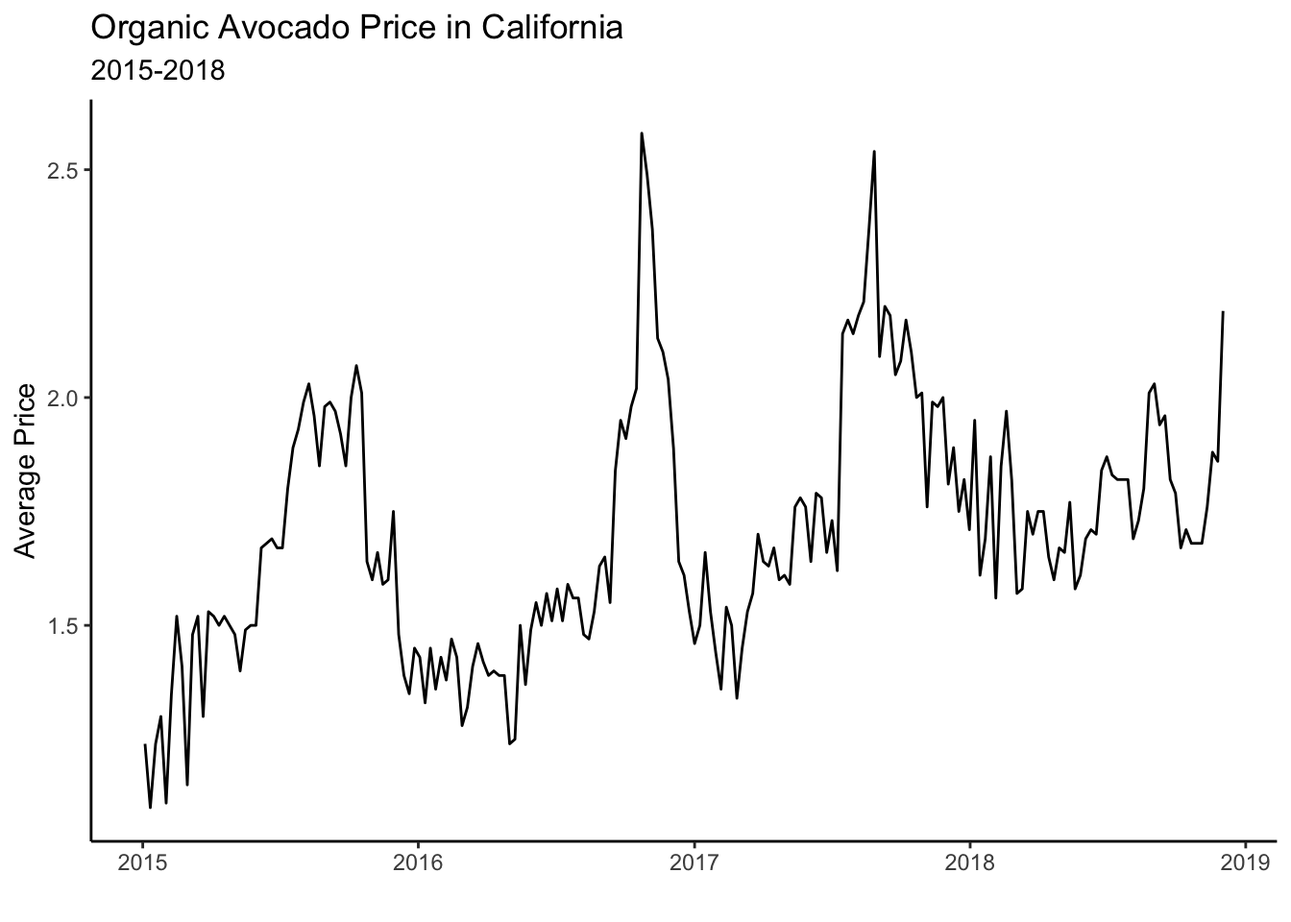
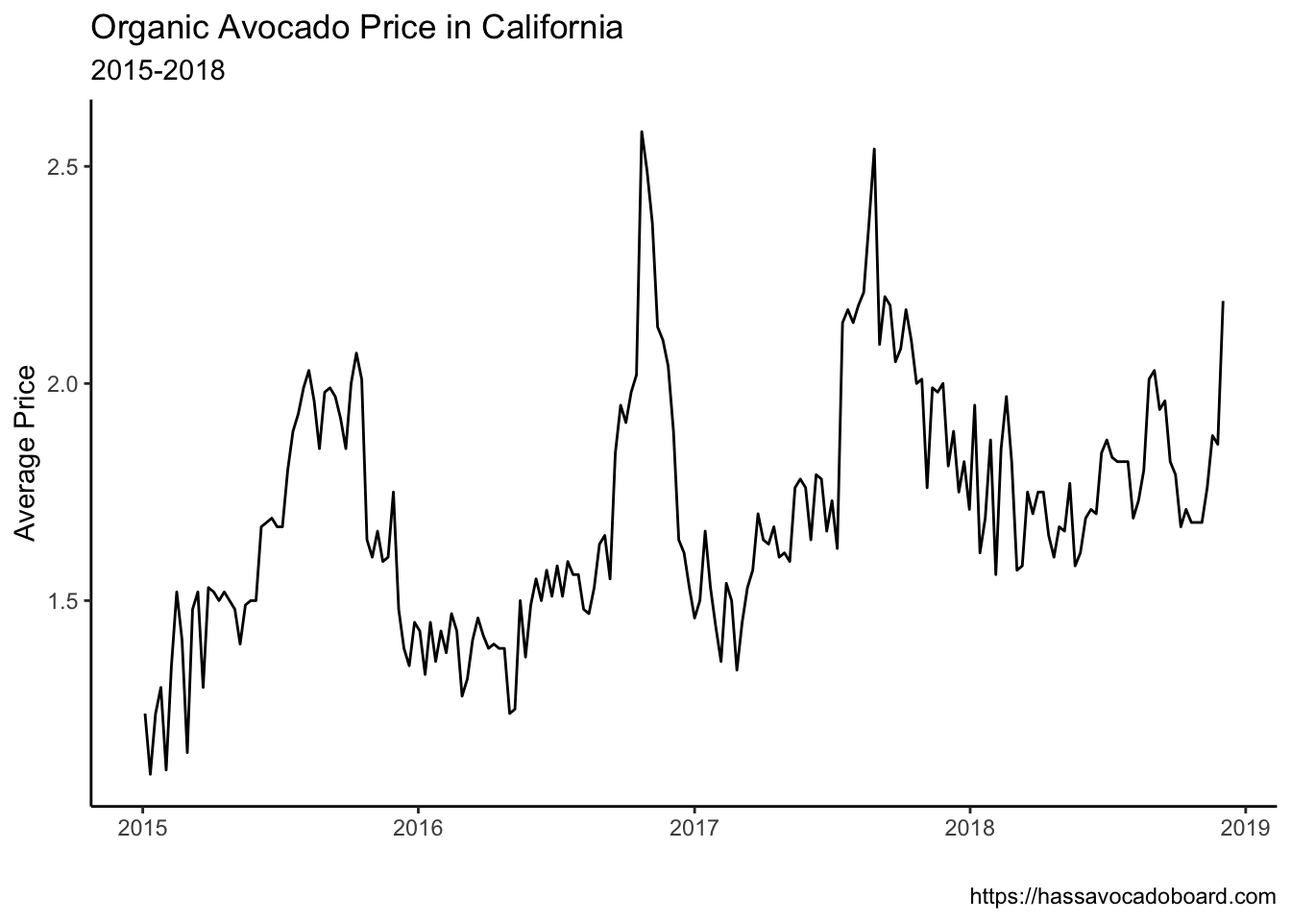
changes to tools 2

diff --git a/docs/Tools2.html b/docs/Tools2.html
@@ -2,7 +2,7 @@
 <html xmlns="http://www.w3.org/1999/xhtml" lang="en" xml:lang="en"><head>
 
 <meta charset="utf-8">
-<meta name="generator" content="quarto-1.3.353">
+<meta name="generator" content="quarto-1.3.433">
 
 <meta name="viewport" content="width=device-width, initial-scale=1.0, user-scalable=yes">
 
@@ -110,7 +110,8 @@ div.csl-indent {
     "search-more-matches-text": "more matches in this document",
     "search-clear-button-title": "Clear",
     "search-detached-cancel-button-title": "Cancel",
-    "search-submit-button-title": "Submit"
+    "search-submit-button-title": "Submit",
+    "search-label": "Search"
   }
 }</script>
 
@@ -131,7 +132,7 @@ div.csl-indent {
       <nav class="quarto-page-breadcrumbs" aria-label="breadcrumb"><ol class="breadcrumb"><li class="breadcrumb-item"><a href="./Tools2.html"><span class="chapter-number">4</span>&nbsp; <span class="chapter-title">Time Series Tools</span></a></li></ol></nav>
       <a class="flex-grow-1" role="button" data-bs-toggle="collapse" data-bs-target="#quarto-sidebar,#quarto-sidebar-glass" aria-controls="quarto-sidebar" aria-expanded="false" aria-label="Toggle sidebar navigation" onclick="if (window.quartoToggleHeadroom) { window.quartoToggleHeadroom(); }">      
       </a>
-      <button type="button" class="btn quarto-search-button" aria-label="Search" onclick="window.quartoOpenSearch();">
+      <button type="button" class="btn quarto-search-button" aria-label="" onclick="window.quartoOpenSearch();">
         <i class="bi bi-search"></i>
       </button>
     </div>
@@ -257,7 +258,7 @@ div.csl-indent {
 </section>
 <section id="sec-Avocado" class="level2" data-number="4.2">
 <h2 data-number="4.2" class="anchored" data-anchor-id="sec-Avocado"><span class="header-section-number">4.2</span> The Avocado Data Set</h2>
-<p>The Hass Avocado Board provides the data set and contains weekly retail scan data of U.S. retail volume (units) and price. Retail scan data comes directly from retailers’ cash registers based on actual retail sales of Hass avocados. The data reflects an expanded, multi-outlet reporting aggregating the following channels: grocery, mass, club, drug, dollar, and military. The Average Price (of avocados) in the table reflects a per unit (per avocado) cost, even when multiple units (avocados) are sold in bags. Other avocados (e.g.&nbsp;greenskins) are not included in this data. You can find the data <a href="https://jagelves.github.io/Data/avocado2020.csv">here</a>.</p>
+<p>The <a href="https://hassavocadoboard.com">Hass Avocado Board</a> provides the data set and contains weekly retail scan data of U.S. retail volume (units) and price. Retail scan data comes directly from retailers’ cash registers based on actual retail sales of Hass avocados. The data reflects an expanded, multi-outlet reporting aggregating the following channels: grocery, mass, club, drug, dollar, and military. The Average Price (of avocados) in the table reflects a per unit (per avocado) cost, even when multiple units (avocados) are sold in bags. Other avocados (e.g.&nbsp;greenskins) are not included in this data. You can find the data <a href="https://jagelves.github.io/Data/avocado2020.csv">here</a>.</p>
 <p><strong>Note:</strong> In general the data is recorded weekly. However, there is an entry on 01/01/2018, that is right after 12/31/2017. This is a single observation that is not weekly. There are also missing dates from 12/02/2018-12/31/2018.</p>
 </section>
 <section id="loading-tidyverse-and-inspecting-the-data." class="level2" data-number="4.3">
@@ -267,11 +268,11 @@ div.csl-indent {
 <div class="sourceCode cell-code" id="cb1"><pre class="sourceCode r code-with-copy"><code class="sourceCode r"><span id="cb1-1"><a href="#cb1-1" aria-hidden="true" tabindex="-1"></a><span class="fu">library</span>(tidyverse)</span></code><button title="Copy to Clipboard" class="code-copy-button"><i class="bi"></i></button></pre></div>
 <div class="cell-output cell-output-stderr">
 <pre><code>── Attaching core tidyverse packages ──────────────────────── tidyverse 2.0.0 ──
-✔ dplyr     1.1.2     ✔ readr     2.1.4
+✔ dplyr     1.1.3     ✔ readr     2.1.4
 ✔ forcats   1.0.0     ✔ stringr   1.5.0
-✔ ggplot2   3.4.2     ✔ tibble    3.2.1
-✔ lubridate 1.9.2     ✔ tidyr     1.3.0
-✔ purrr     1.0.1     
+✔ ggplot2   3.4.3     ✔ tibble    3.2.1
+✔ lubridate 1.9.3     ✔ tidyr     1.3.0
+✔ purrr     1.0.2     
 ── Conflicts ────────────────────────────────────────── tidyverse_conflicts() ──
 ✖ dplyr::filter() masks stats::filter()
 ✖ dplyr::lag()    masks stats::lag()
@@ -343,46 +344,62 @@ dbl (10): average_price, total_volume, 4046, 4225, 4770, total_bags, small_b...
 <div class="sourceCode cell-code" id="cb10"><pre class="sourceCode r code-with-copy"><code class="sourceCode r"><span id="cb10-1"><a href="#cb10-1" aria-hidden="true" tabindex="-1"></a>avocado <span class="sc">%&gt;%</span> <span class="fu">filter</span>(date<span class="sc">!=</span><span class="fu">ymd</span>(<span class="st">"2018-01-01"</span>)) <span class="ot">-&gt;</span> avocado</span></code><button title="Copy to Clipboard" class="code-copy-button"><i class="bi"></i></button></pre></div>
 </div>
 <p>You should notice that whereas the <code>select()</code> function chooses particular variables (i.e., columns), the <code>filter()</code> function chooses rows of the tibble that meet the conditions listed. Note also that the filtered data set is assigned (<code>-&gt;</code>) to <em>avocado</em> overwriting the older object.</p>
-<p>The examples above highlight the use of <code>dplyr</code> functions to transform your data. There are plenty of other functions, but learning these are outside the scope of this book. To find out more, I recommend reading <span class="citation" data-cites="R4DS">Wickham (<a href="references.html#ref-R4DS" role="doc-biblioref">2017</a>)</span> Chapter 4. For now, we will use one more data transformation technique to retrieve California’s average price of organic avocados for 2015-2018.</p>
+<p>The examples above highlight the use of <code>dplyr</code> functions to transform your data. There are plenty of other functions, but learning these are outside the scope of this book. To find out more, I recommend reading <span class="citation" data-cites="R4DS">Wickham (<a href="references.html#ref-R4DS" role="doc-biblioref">2017</a>)</span> Chapter 4. Let’s use the <code>filter()</code> and <code>select()</code> functions once more to retrieve California’s average price of organic avocados for 2015-2018.</p>
 <div class="cell">
 <div class="sourceCode cell-code" id="cb11"><pre class="sourceCode r code-with-copy"><code class="sourceCode r"><span id="cb11-1"><a href="#cb11-1" aria-hidden="true" tabindex="-1"></a>avocado <span class="sc">%&gt;%</span> </span>
 <span id="cb11-2"><a href="#cb11-2" aria-hidden="true" tabindex="-1"></a>  <span class="fu">filter</span>(geography<span class="sc">==</span><span class="st">"California"</span>, type<span class="sc">==</span><span class="st">"organic"</span>, year<span class="sc">&lt;=</span><span class="dv">2018</span>) <span class="sc">%&gt;%</span> </span>
-<span id="cb11-3"><a href="#cb11-3" aria-hidden="true" tabindex="-1"></a>  <span class="fu">select</span>(date, average_price, geography) <span class="ot">-&gt;</span> cali</span></code><button title="Copy to Clipboard" class="code-copy-button"><i class="bi"></i></button></pre></div>
+<span id="cb11-3"><a href="#cb11-3" aria-hidden="true" tabindex="-1"></a>  <span class="fu">select</span>(date, average_price) <span class="ot">-&gt;</span> cali</span></code><button title="Copy to Clipboard" class="code-copy-button"><i class="bi"></i></button></pre></div>
 </div>
+<p>When exploring time series data, it is important to standardize the time interval between observations. The code below calculates the number of days between observations.</p>
+<div class="cell">
+<div class="sourceCode cell-code" id="cb12"><pre class="sourceCode r code-with-copy"><code class="sourceCode r"><span id="cb12-1"><a href="#cb12-1" aria-hidden="true" tabindex="-1"></a>cali <span class="sc">%&gt;%</span> <span class="fu">pull</span>(date) <span class="sc">%&gt;%</span> <span class="fu">diff</span>()</span></code><button title="Copy to Clipboard" class="code-copy-button"><i class="bi"></i></button></pre></div>
+<div class="cell-output cell-output-stdout">
+<pre><code>Time differences in days
+  [1] 7 7 7 7 7 7 7 7 7 7 7 7 7 7 7 7 7 7 7 7 7 7 7 7 7 7 7 7 7 7 7 7 7 7 7 7 7
+ [38] 7 7 7 7 7 7 7 7 7 7 7 7 7 7 7 7 7 7 7 7 7 7 7 7 7 7 7 7 7 7 7 7 7 7 7 7 7
+ [75] 7 7 7 7 7 7 7 7 7 7 7 7 7 7 7 7 7 7 7 7 7 7 7 7 7 7 7 7 7 7 7 7 7 7 7 7 7
+[112] 7 7 7 7 7 7 7 7 7 7 7 7 7 7 7 7 7 7 7 7 7 7 7 7 7 7 7 7 7 7 7 7 7 7 7 7 7
+[149] 7 7 7 7 7 7 7 7 7 7 7 7 7 7 7 7 7 7 7 7 7 7 7 7 7 7 7 7 7 7 7 7 7 7 7 7 7
+[186] 7 7 7 7 7 7 7 7 7 7 7 7 7 7 7 7 7 7 7</code></pre>
+</div>
+</div>
+<p>The <code>pull()</code> function vectorizes the <em>date</em> variable, making it possible to apply the <code>diff()</code> function. The result confirms that all observations are seven days apart and that no missing observations or duplicates exist.</p>
 </section>
 <section id="sec-Visual" class="level2" data-number="4.5">
 <h2 data-number="4.5" class="anchored" data-anchor-id="sec-Visual"><span class="header-section-number">4.5</span> Visualizing The Data</h2>
 <p>To visualize the data, we will be using <code>ggplot2</code>. One of the main functions in <code>ggplot2</code> is the <code>aes()</code> function. This function sets the plotting canvas and determines the mapping of variables. The <code>geom_line()</code> function specifies the type of plot and is added to the canvas with the plus sign <code>+</code>. In time series, we will use the line plot regularly. Labels for the graph are easily set with the <code>labs()</code> function and there are plenty of themes available to customize your visualization. Below, the <code>theme_classic()</code> is displayed. To learn more about the <code>ggplot</code> package, you can refer to <span class="citation" data-cites="R4DS">Wickham (<a href="references.html#ref-R4DS" role="doc-biblioref">2017</a>)</span> Chapter 2. Below is the code to create a line plot of California’s average avocado price.</p>
 <div class="cell">
-<div class="sourceCode cell-code" id="cb12"><pre class="sourceCode r code-with-copy"><code class="sourceCode r"><span id="cb12-1"><a href="#cb12-1" aria-hidden="true" tabindex="-1"></a><span class="fu">ggplot</span>(<span class="at">data=</span>cali) <span class="sc">+</span> </span>
-<span id="cb12-2"><a href="#cb12-2" aria-hidden="true" tabindex="-1"></a>  <span class="fu">geom_line</span>(<span class="at">mapping=</span><span class="fu">aes</span>(<span class="at">x=</span>date,<span class="at">y=</span>average_price, <span class="at">group=</span>geography),<span class="at">color=</span><span class="st">"black"</span>) <span class="sc">+</span></span>
-<span id="cb12-3"><a href="#cb12-3" aria-hidden="true" tabindex="-1"></a>  <span class="fu">theme_classic</span>() <span class="sc">+</span> </span>
-<span id="cb12-4"><a href="#cb12-4" aria-hidden="true" tabindex="-1"></a>  <span class="fu">labs</span>(<span class="at">x=</span><span class="st">""</span>,</span>
-<span id="cb12-5"><a href="#cb12-5" aria-hidden="true" tabindex="-1"></a>       <span class="at">y=</span><span class="st">"Average Price"</span>, </span>
-<span id="cb12-6"><a href="#cb12-6" aria-hidden="true" tabindex="-1"></a>       <span class="at">title=</span><span class="st">"Organic Avocado Price in California"</span>,</span>
-<span id="cb12-7"><a href="#cb12-7" aria-hidden="true" tabindex="-1"></a>       <span class="at">subtitle=</span><span class="st">"2015-2018"</span>)  </span></code><button title="Copy to Clipboard" class="code-copy-button"><i class="bi"></i></button></pre></div>
+<div class="sourceCode cell-code" id="cb14"><pre class="sourceCode r code-with-copy"><code class="sourceCode r"><span id="cb14-1"><a href="#cb14-1" aria-hidden="true" tabindex="-1"></a><span class="fu">ggplot</span>(<span class="at">data=</span>cali) <span class="sc">+</span> </span>
+<span id="cb14-2"><a href="#cb14-2" aria-hidden="true" tabindex="-1"></a>  <span class="fu">geom_line</span>(<span class="at">mapping=</span><span class="fu">aes</span>(<span class="at">x=</span>date,<span class="at">y=</span>average_price),</span>
+<span id="cb14-3"><a href="#cb14-3" aria-hidden="true" tabindex="-1"></a>            <span class="at">color=</span><span class="st">"black"</span>) <span class="sc">+</span></span>
+<span id="cb14-4"><a href="#cb14-4" aria-hidden="true" tabindex="-1"></a>  <span class="fu">theme_classic</span>() <span class="sc">+</span> </span>
+<span id="cb14-5"><a href="#cb14-5" aria-hidden="true" tabindex="-1"></a>  <span class="fu">labs</span>(<span class="at">x=</span><span class="st">""</span>,</span>
+<span id="cb14-6"><a href="#cb14-6" aria-hidden="true" tabindex="-1"></a>       <span class="at">y=</span><span class="st">"Average Price"</span>, </span>
+<span id="cb14-7"><a href="#cb14-7" aria-hidden="true" tabindex="-1"></a>       <span class="at">title=</span><span class="st">"Organic Avocado Price in California"</span>,</span>
+<span id="cb14-8"><a href="#cb14-8" aria-hidden="true" tabindex="-1"></a>       <span class="at">subtitle=</span><span class="st">"2015-2018"</span>,</span>
+<span id="cb14-9"><a href="#cb14-9" aria-hidden="true" tabindex="-1"></a>       <span class="at">caption=</span><span class="st">"https://hassavocadoboard.com"</span>)  </span></code><button title="Copy to Clipboard" class="code-copy-button"><i class="bi"></i></button></pre></div>
 <div class="cell-output-display">
-<p><img src="Tools2_files/figure-html/unnamed-chunk-8-1.png" class="img-fluid" width="672"></p>
+<p><img src="Tools2_files/figure-html/unnamed-chunk-9-1.png" class="img-fluid" width="672"></p>
 </div>
 </div>
 <p>The average price of avocados in California increased during the period considered. It reached a maximum of about <span class="math inline">\(2.60\)</span> in <span class="math inline">\(2017\)</span> and a minimum of <span class="math inline">\(1.10\)</span> in <span class="math inline">\(2015\)</span>. There is also a seasonal pattern with low prices at the beginning of the year and peaks mid-year. In upcoming chapters, we will extrapolate these patterns and use them to forecast time series.</p>
 </section>
 <section id="tsibbles" class="level2" data-number="4.6">
 <h2 data-number="4.6" class="anchored" data-anchor-id="tsibbles"><span class="header-section-number">4.6</span> tsibbles</h2>
-<p>When dealing with time series, time plays an important role. Consequently, we will use a data structure called a tsibble (time series tibble). tsibbles are defined by a time index (i.e., the date) that has a standard interval (i.e., days, weeks, months, and years) and keys (i.e., dimensions or observational units). In the <em>avocado</em> data set, we are mainly interested in the average price of the avocados. You will note that the prices are classified by location (geography) and type (organic and conventional). You can learn more about tsibbles <a href="https://tsibble.tidyverts.org">here</a>.</p>
+<p>When analyzing time series, time plays a central role. Consequently, we will use a data structure to handle a time series called a tsibble (time series tibble). tsibbles are defined by a time index (i.e., the date) that has a standard interval (i.e., days, weeks, months, and years) and keys (i.e., dimensions that do not vary with time). In the <em>avocado</em> data set, we are mainly interested in the average price of the avocados. You will note that the prices are classified by location (geography) and type (organic and conventional). You can learn more about tsibbles <a href="https://tsibble.tidyverts.org">here</a>.</p>
 <p>tsibbles, as well a variety of packages that help us analyze time series, are part of the <code>fpp3</code> package. Below we load the package, and coerce our avocado tibble to a tsibble.</p>
 <div class="cell">
-<div class="sourceCode cell-code" id="cb13"><pre class="sourceCode r code-with-copy"><code class="sourceCode r"><span id="cb13-1"><a href="#cb13-1" aria-hidden="true" tabindex="-1"></a><span class="fu">library</span>(fpp3)</span>
-<span id="cb13-2"><a href="#cb13-2" aria-hidden="true" tabindex="-1"></a>avocado <span class="sc">%&gt;%</span></span>
-<span id="cb13-3"><a href="#cb13-3" aria-hidden="true" tabindex="-1"></a>  <span class="fu">as_tsibble</span>(<span class="at">key=</span><span class="fu">c</span>(type, geography),</span>
-<span id="cb13-4"><a href="#cb13-4" aria-hidden="true" tabindex="-1"></a>           <span class="at">index=</span>date, <span class="at">regular=</span>T) <span class="sc">%&gt;%</span></span>
-<span id="cb13-5"><a href="#cb13-5" aria-hidden="true" tabindex="-1"></a>  <span class="fu">filter_index</span>(<span class="st">"2015-01-04"</span><span class="sc">~</span><span class="st">"2018-12-02"</span>)<span class="ot">-&gt;</span> avocadots</span></code><button title="Copy to Clipboard" class="code-copy-button"><i class="bi"></i></button></pre></div>
+<div class="sourceCode cell-code" id="cb15"><pre class="sourceCode r code-with-copy"><code class="sourceCode r"><span id="cb15-1"><a href="#cb15-1" aria-hidden="true" tabindex="-1"></a><span class="fu">library</span>(fpp3)</span>
+<span id="cb15-2"><a href="#cb15-2" aria-hidden="true" tabindex="-1"></a>avocado <span class="sc">%&gt;%</span></span>
+<span id="cb15-3"><a href="#cb15-3" aria-hidden="true" tabindex="-1"></a>  <span class="fu">as_tsibble</span>(<span class="at">key=</span><span class="fu">c</span>(type, geography),</span>
+<span id="cb15-4"><a href="#cb15-4" aria-hidden="true" tabindex="-1"></a>           <span class="at">index=</span>date, <span class="at">regular=</span>T) <span class="sc">%&gt;%</span></span>
+<span id="cb15-5"><a href="#cb15-5" aria-hidden="true" tabindex="-1"></a>  <span class="fu">filter_index</span>(<span class="st">"2015-01-04"</span><span class="sc">~</span><span class="st">"2018-12-02"</span>)<span class="ot">-&gt;</span> avocadots</span></code><button title="Copy to Clipboard" class="code-copy-button"><i class="bi"></i></button></pre></div>
 </div>
-<p>In the code above, the <code>as_tsibble()</code> function was called with the parameter <em>regular</em> set at true indicating that the date has no gaps and occurs every week (the greatest common divisor of the index column). The function <code>filter_index()</code> is called as it allows us to determine the window for analysis. As noted in <a href="#sec-Avocado"><span>Section&nbsp;4.2</span></a>, there are some missing dates in December 2018. We limit the analysis for now to 2015-2018.</p>
+<p>In the code above, the <code>as_tsibble()</code> function was called with the parameter <em>regular</em> set at true, indicating that the date has no gaps and occurs every week (the greatest common divisor of the index column). Additionally, the type of avocado and the geography do not vary with time and are classified as a <em>key</em>. The function <code>filter_index()</code> is called as it allows us to determine the window for analysis. As noted in <a href="#sec-Avocado"><span>Section&nbsp;4.2</span></a>, there are some missing dates in December 2018. We limit the analysis for now to 2015-2018.</p>
 <p>Recall, that we are interested in the average price of avocados for California. We can specify the tsibble for analysis, by using <code>dplyr</code>.</p>
 <div class="cell">
-<div class="sourceCode cell-code" id="cb14"><pre class="sourceCode r code-with-copy"><code class="sourceCode r"><span id="cb14-1"><a href="#cb14-1" aria-hidden="true" tabindex="-1"></a>avocadots <span class="sc">%&gt;%</span> <span class="fu">filter</span>(geography<span class="sc">==</span><span class="st">"California"</span>, type<span class="sc">==</span><span class="st">"organic"</span>) <span class="sc">%&gt;%</span></span>
-<span id="cb14-2"><a href="#cb14-2" aria-hidden="true" tabindex="-1"></a>  <span class="fu">select</span>(date,geography,average_price) <span class="ot">-&gt;</span> calits</span></code><button title="Copy to Clipboard" class="code-copy-button"><i class="bi"></i></button></pre></div>
+<div class="sourceCode cell-code" id="cb16"><pre class="sourceCode r code-with-copy"><code class="sourceCode r"><span id="cb16-1"><a href="#cb16-1" aria-hidden="true" tabindex="-1"></a>avocadots <span class="sc">%&gt;%</span> <span class="fu">filter</span>(geography<span class="sc">==</span><span class="st">"California"</span>, type<span class="sc">==</span><span class="st">"organic"</span>) <span class="sc">%&gt;%</span></span>
+<span id="cb16-2"><a href="#cb16-2" aria-hidden="true" tabindex="-1"></a>  <span class="fu">select</span>(date,average_price) <span class="ot">-&gt;</span> calits</span></code><button title="Copy to Clipboard" class="code-copy-button"><i class="bi"></i></button></pre></div>
 </div>
 </section>
 <section id="time-series-decomposition" class="level2" data-number="4.7">
@@ -390,12 +407,12 @@ dbl (10): average_price, total_volume, 4046, 4225, 4770, total_bags, small_b...
 <p>As highlighted in <a href="#sec-Visual"><span>Section&nbsp;4.5</span></a>, the average price of avocados in California has a trend and a seasonal pattern. There are methods available to tease these components and make them more apparent. STL (Season Trend decomposition using LOESS) decomposes the series into a trend, seasonality, and an error (unexplained) component. It is easy to run this method in R using the <a href="https://fable.tidyverts.org">fable</a> package.</p>
 <p>In practice, the decomposition is constructed in several steps. First, a moving average of the series is calculated to track the trend. The trend is then subtracted from the series to obtain a de-trended series. The seasonal component is calculated by averaging the values based on the window provided (52 weeks or yearly) for the de-trended series. The error is the remaining series fluctuation that is not explained by the trend or the seasonal component (<span class="math inline">\(Series-Trend-Seasonal=Error\)</span>). In the end, each component can be graphed and displayed, as illustrated below.</p>
 <div class="cell">
-<div class="sourceCode cell-code" id="cb15"><pre class="sourceCode r code-with-copy"><code class="sourceCode r"><span id="cb15-1"><a href="#cb15-1" aria-hidden="true" tabindex="-1"></a>calits <span class="sc">%&gt;%</span></span>
-<span id="cb15-2"><a href="#cb15-2" aria-hidden="true" tabindex="-1"></a>  <span class="fu">model</span>(<span class="fu">STL</span>(average_price<span class="sc">~</span><span class="fu">trend</span>(<span class="at">window=</span><span class="dv">199</span>)<span class="sc">+</span></span>
-<span id="cb15-3"><a href="#cb15-3" aria-hidden="true" tabindex="-1"></a>              <span class="fu">season</span>(<span class="at">window=</span><span class="dv">51</span>), <span class="at">robust=</span><span class="cn">TRUE</span>)) <span class="sc">%&gt;%</span></span>
-<span id="cb15-4"><a href="#cb15-4" aria-hidden="true" tabindex="-1"></a>  <span class="fu">components</span>() <span class="sc">%&gt;%</span> <span class="fu">autoplot</span>()<span class="sc">+</span> <span class="fu">theme_classic</span>()</span></code><button title="Copy to Clipboard" class="code-copy-button"><i class="bi"></i></button></pre></div>
+<div class="sourceCode cell-code" id="cb17"><pre class="sourceCode r code-with-copy"><code class="sourceCode r"><span id="cb17-1"><a href="#cb17-1" aria-hidden="true" tabindex="-1"></a>calits <span class="sc">%&gt;%</span></span>
+<span id="cb17-2"><a href="#cb17-2" aria-hidden="true" tabindex="-1"></a>  <span class="fu">model</span>(<span class="fu">STL</span>(average_price<span class="sc">~</span><span class="fu">trend</span>(<span class="at">window=</span><span class="dv">199</span>)<span class="sc">+</span></span>
+<span id="cb17-3"><a href="#cb17-3" aria-hidden="true" tabindex="-1"></a>              <span class="fu">season</span>(<span class="at">window=</span><span class="dv">51</span>), <span class="at">robust=</span><span class="cn">TRUE</span>)) <span class="sc">%&gt;%</span></span>
+<span id="cb17-4"><a href="#cb17-4" aria-hidden="true" tabindex="-1"></a>  <span class="fu">components</span>() <span class="sc">%&gt;%</span> <span class="fu">autoplot</span>()<span class="sc">+</span> <span class="fu">theme_classic</span>()</span></code><button title="Copy to Clipboard" class="code-copy-button"><i class="bi"></i></button></pre></div>
 <div class="cell-output-display">
-<p><img src="Tools2_files/figure-html/unnamed-chunk-11-1.png" class="img-fluid" width="672"></p>
+<p><img src="Tools2_files/figure-html/unnamed-chunk-12-1.png" class="img-fluid" width="672"></p>
 </div>
 </div>
 <p><code>fable</code> allows us to construct this model easily by using the <code>model()</code> function. This function will allow us to estimate a variety of time series models, so we will be using it regularly. The particular model we are running is STL, hence the use of the <code>STL()</code> function within the <code>model()</code> function. We define the model by specifying the dependent variable (i.e., <em>average_price</em>) followed by a tilde (<code>~</code>) and the components. As you can see, the <em>window</em> argument in the <code>trend()</code> function is set to a relatively large value and the <code>season()</code> function specifies <span class="math inline">\(51\)</span> weeks to capture the yearly seasonality. By doing this the moving average reflects the general direction of the series and avoids the small fluctuations of the data. The <em>robust</em> parameter is set to true to make the fitting process less sensitive to outliers or influential data points. You can learn more about this function in Chapter 3 of <span class="citation" data-cites="FPP3">Hyndman (<a href="references.html#ref-FPP3" role="doc-biblioref">2021</a>)</span>.</p>
@@ -426,10 +443,10 @@ dbl (10): average_price, total_volume, 4046, 4225, 4770, total_bags, small_b...
 
 <div id="refs" class="references csl-bib-body hanging-indent" role="list" style="display: none">
 <div id="ref-FPP3" class="csl-entry" role="listitem">
-Hyndman, Rob. 2021. <span>“Forecasting Principles and Practice.”</span> <a href="https://otexts.com/fpp3/">https://otexts.com/fpp3/</a>.
+Hyndman, Rob. 2021. <em>Forecasting Principles and Practice</em>. Otexts. <a href="https://otexts.com/fpp3/">https://otexts.com/fpp3/</a>.
 </div>
 <div id="ref-R4DS" class="csl-entry" role="listitem">
-Wickham, Hadley. 2017. <span>“R for Data Science.”</span> <a href="https://r4ds.hadley.nz">https://r4ds.hadley.nz</a>.
+Wickham, Hadley. 2017. <em>R for Data Science</em>. O’Reilly. <a href="https://r4ds.hadley.nz">https://r4ds.hadley.nz</a>.
 </div>
 </div>
 </section>
